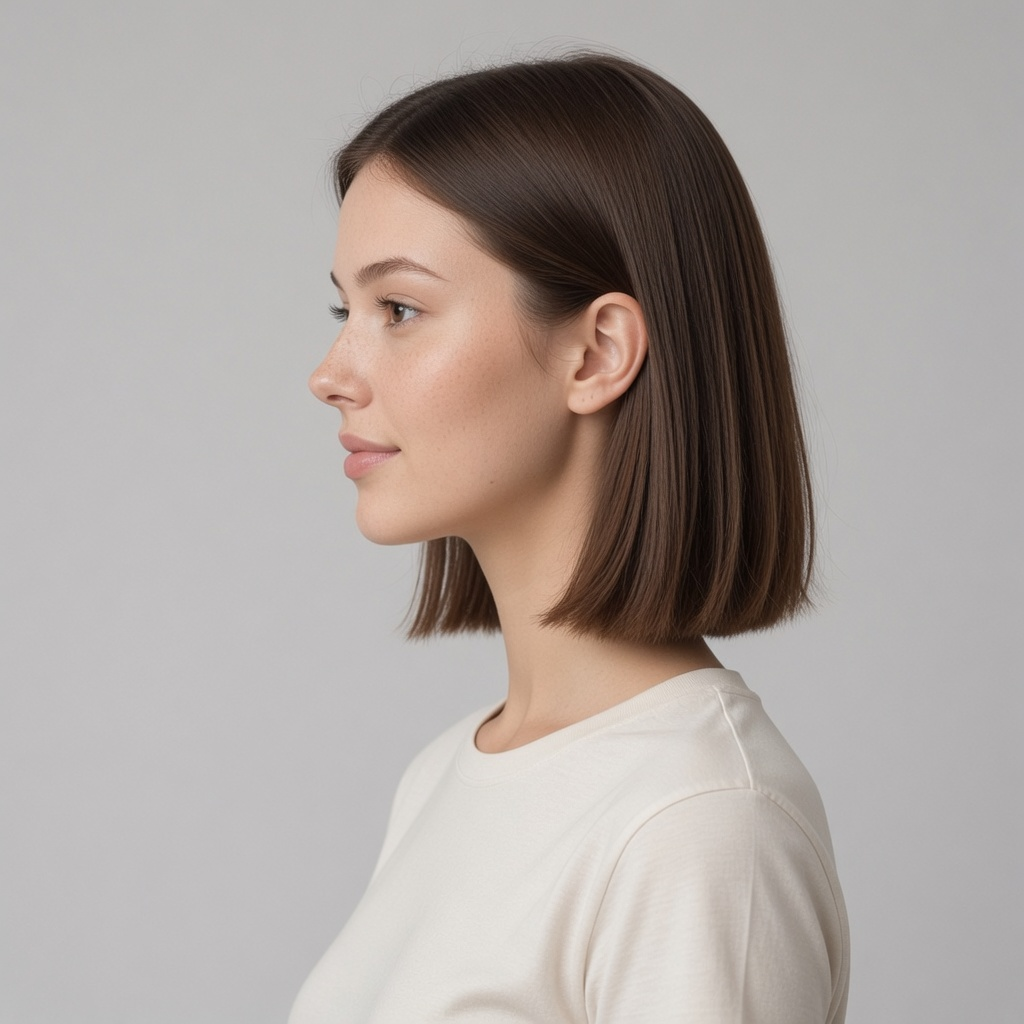
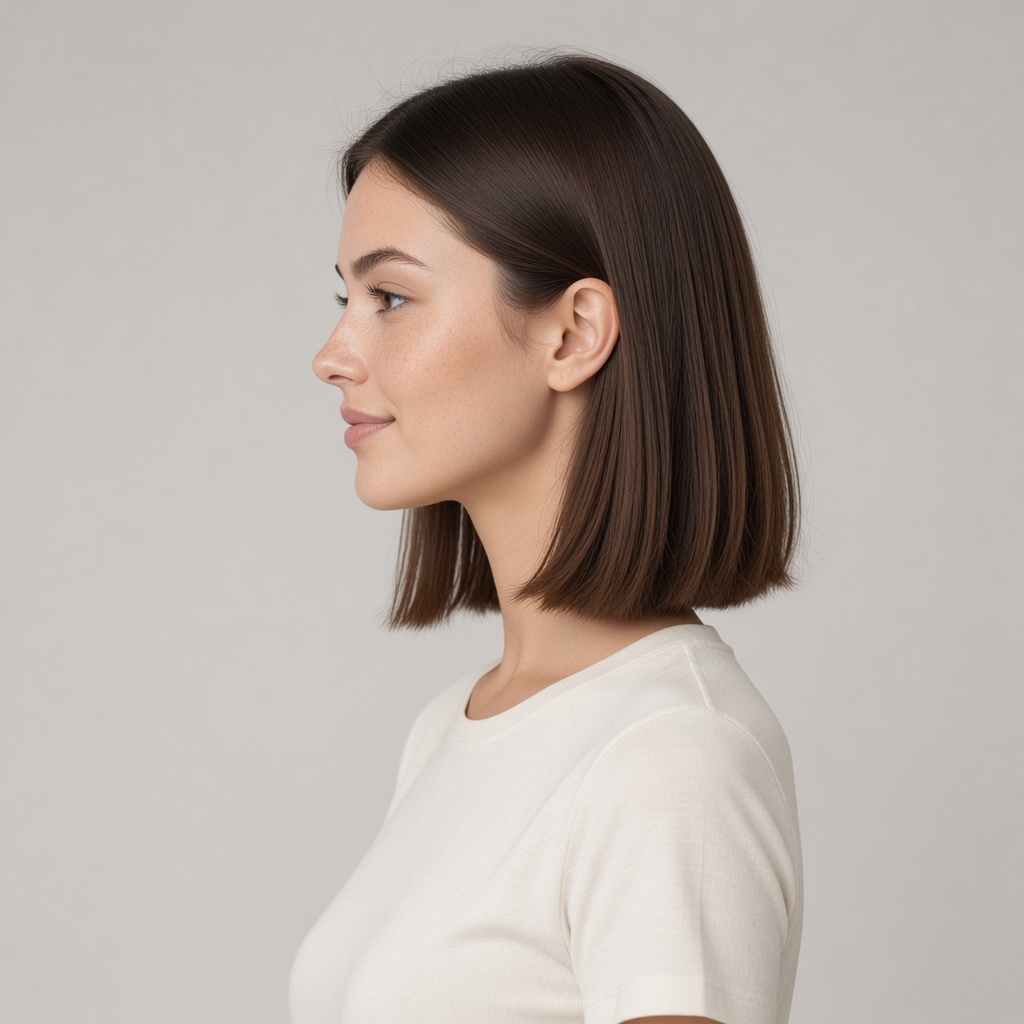
feat: give Persona B a lifted nose, slight smile, and hourglass
Adult 21. The same slight smile is on every view, and the body waist is narrower than the bust and hips.

diff --git a/latest_sheet.py b/latest_sheet.py
@@ -21,20 +21,20 @@ CARD = (255, 252, 247)
 FONT = '/usr/share/fonts/truetype/dejavu/DejaVuSans.ttf'
 FONT_BOLD = '/usr/share/fonts/truetype/dejavu/DejaVuSans-Bold.ttf'
 SWATCHES = (
-    ('face_front.jpg', (0.54, 0.44), 'Skin'),
-    ('face_front.jpg', (0.30, 0.28), 'Hair'),
-    ('face_front.jpg', (0.38, 0.42), 'Iris'),
+    ('face_front.jpg', (0.44, 0.38), 'Skin'),
+    ('face_front.jpg', (0.34, 0.34), 'Hair'),
+    ('face_front.jpg', (0.40, 0.42), 'Iris'),
     ('face_front.jpg', (0.50, 0.90), 'Ivory'),
     ('body_front.jpg', (0.54, 0.70), 'Charcoal'),
-    ('body_front.jpg', (0.47, 0.845), 'Flats'),
+    ('body_front.jpg', (0.42, 0.92), 'Flats'),
     ('face_front.jpg', (0.08, 0.08), 'Studio'),
 )
 LOCKS = (
     '21-year-old adult',
     'Center-part chestnut bob, warm brown eyes, light freckles',
-    'Soft closed mouth, delicate fine-boned face, long neck',
+    'Slight closed-mouth smile, lifted nose, fine-boned face',
     'Ivory crew tee, charcoal trousers, dark closed flats',
-    'No jewelry. Light gray studio. Lean graceful figure.',
+    'No jewelry. Light gray studio. Noticeable hourglass.',
 )
 
 
@@ -131,8 +131,8 @@ def render_latest_sheet(folder):
     draw.text((28, 24), 'PERSONA B', fill=INK, font=title)
     status = 'LATEST   ·   NOT LOCKED'
     draw.text((WIDTH - 28 - draw.textlength(status, font=eyebrow), 32), status, fill=MUTED, font=eyebrow)
-    draw.text((28, 58), 'Cute, sweet, beautiful, gorgeous, stunning, lovely', fill=MUTED, font=sub)
-    draw.text((28, 78), 'Delicate, elegant, refined, graceful, luminous, fine-boned, poised', fill=MUTED, font=sub)
+    draw.text((28, 58), 'Elegant, beautiful, gorgeous, stunning, refined, lovely', fill=MUTED, font=sub)
+    draw.text((28, 78), 'Slight smile, lifted nose, delicate, fine-boned, hourglass', fill=MUTED, font=sub)
     draw.line((28, 104, WIDTH - 28, 104), fill=RULE, width=1)
 
     body_fill = _sample(sources['body_front.jpg'], (0.06, 0.06))
